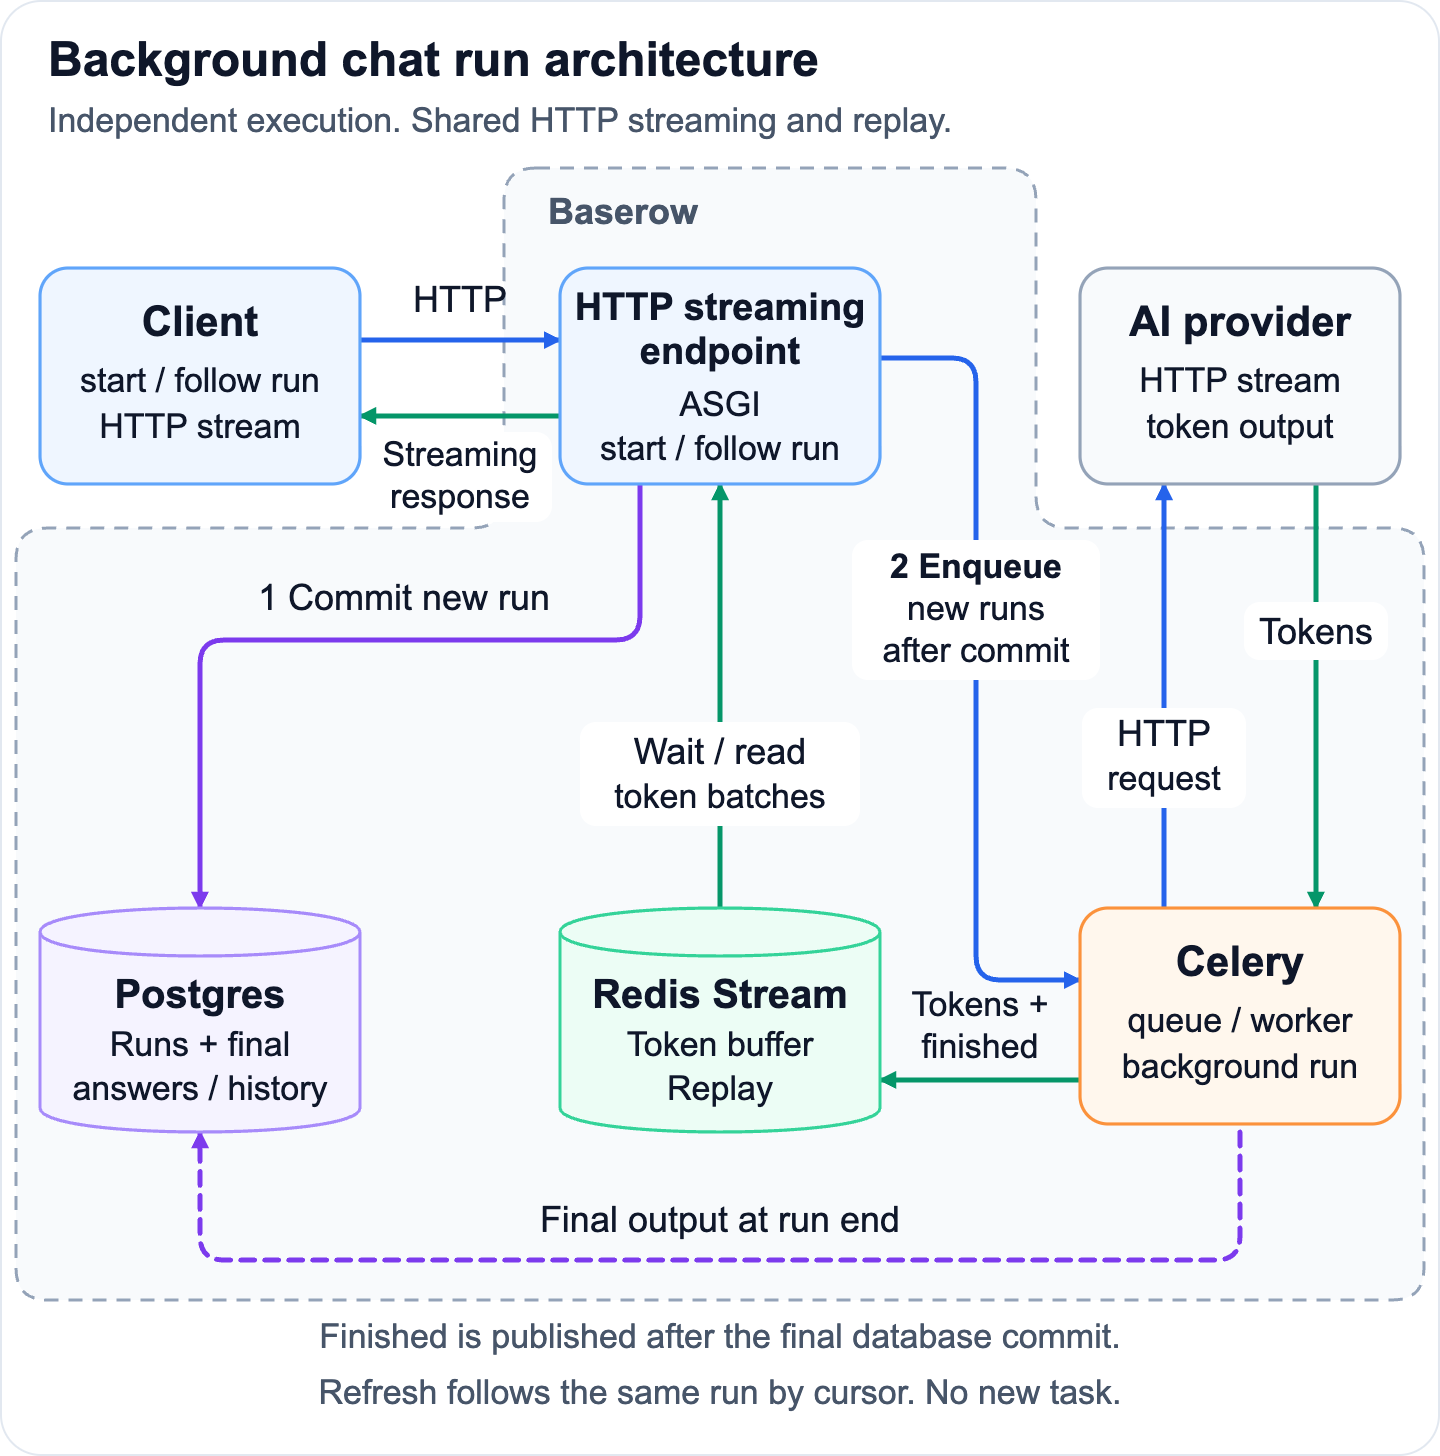
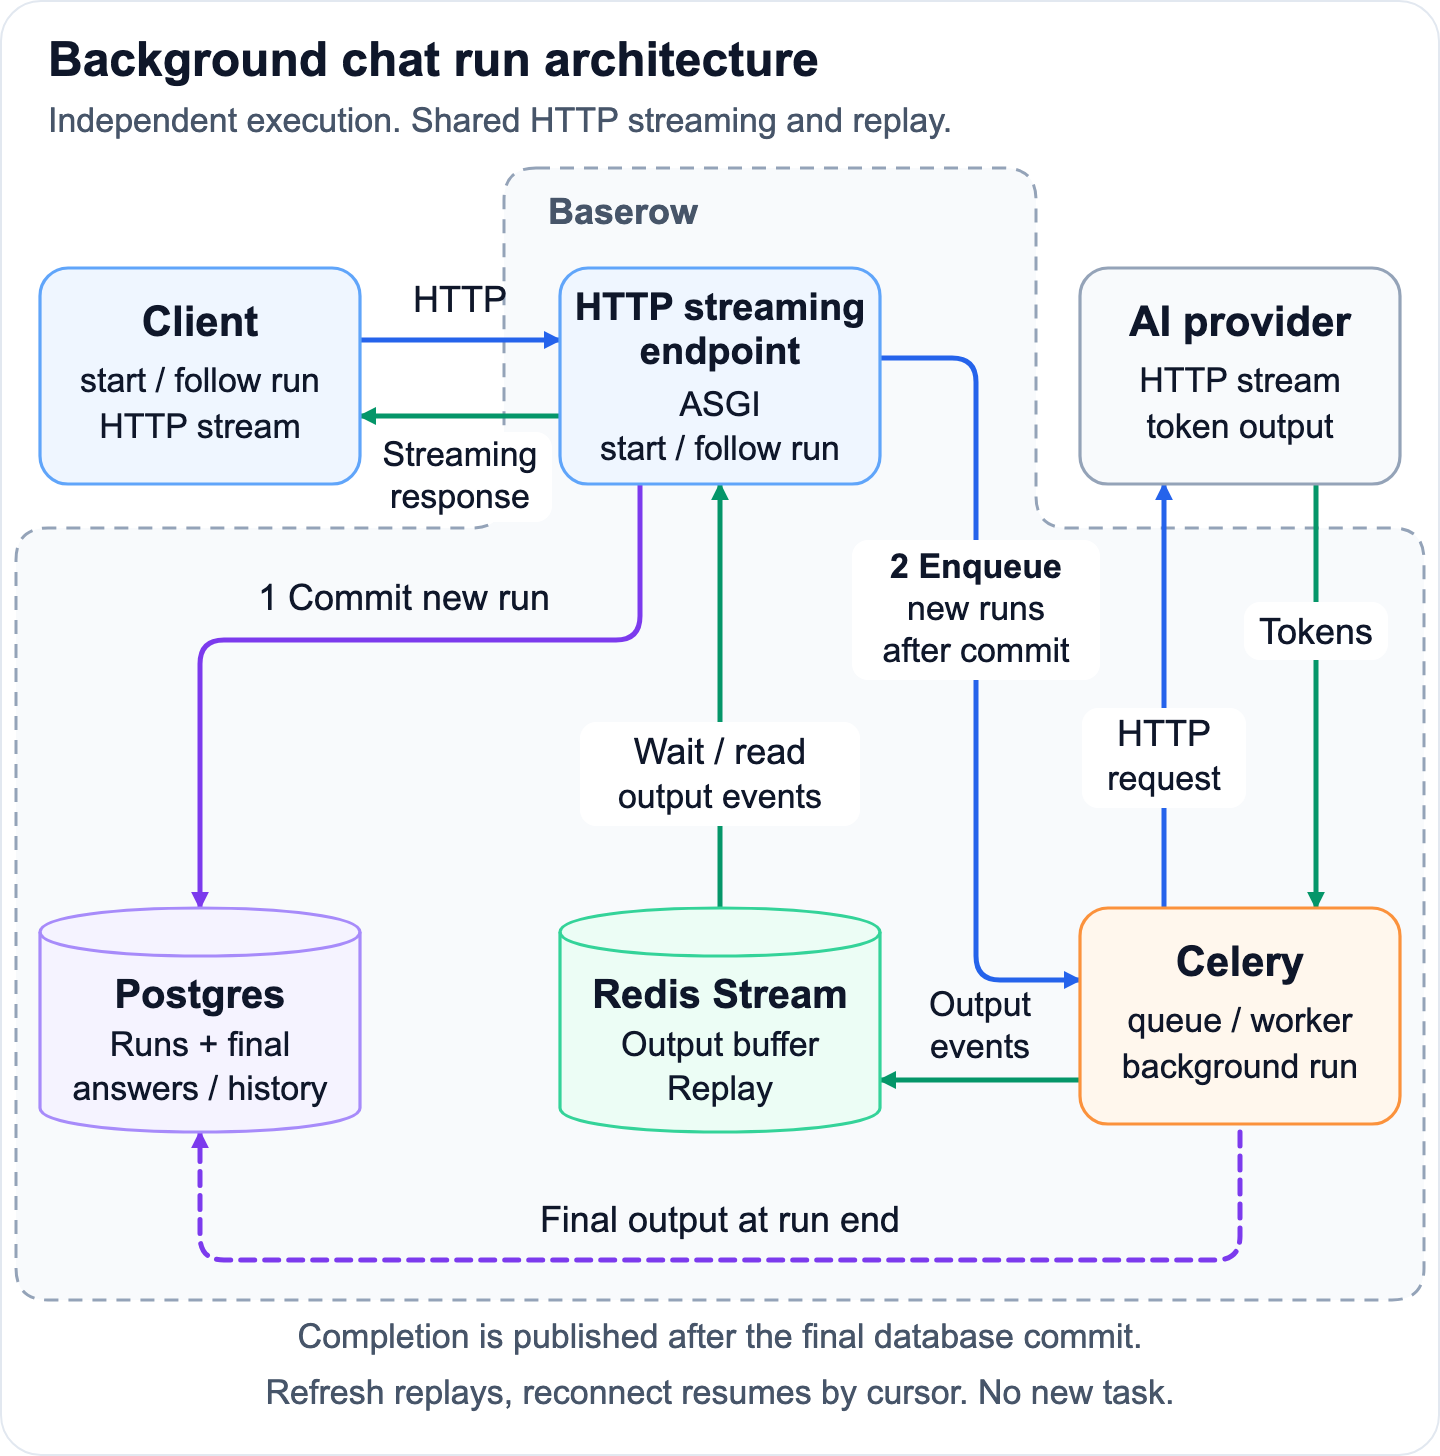
docs: clarify ADR 010 after review
- Define the not-started timeout, the periodic sweep and the chat_run queue.
- At the buffer size bound, stop publishing and mark replay unavailable.
- Make the interruption warning best effort and list its loss.
- Give Stop its own adapter permission check.
- Use "output events" as the single term in the text and diagram.

diff --git a/docs/decisions/010-background-ai-chat-runs.md b/docs/decisions/010-background-ai-chat-runs.md
@@ -52,16 +52,19 @@ of the initiating request and any followers. Product adapters supply execution,
 tools, permissions and conversation history.
 Disconnecting a follower never cancels the run; Stop is a separate operation.
 
-Keep one active run per conversation, per-user limits, execution deadlines,
-atomic claims and terminal transitions, and the `chat_run` queue on the existing
-export worker. The run engine never restarts failed or interrupted runs or
+Enforce one active run per conversation, per-user limits, execution deadlines,
+a not-started timeout for queued runs no worker picks up, atomic claims and
+terminal transitions. Runs use a dedicated `chat_run` Celery queue consumed by
+the existing export worker, so no new service is needed. The run engine never
+restarts failed or interrupted runs or
 replays their tool effects. Provider-request and validation retries within a
 live run remain product behavior. Stop is run-scoped and finishes after active
 tools drain; committed changes remain.
 
 ### 2. Stream and replay over HTTP
 
-Deliver ordered run output through an authenticated HTTP stream. A follower
+Deliver a run's ordered output events (text, progress, status and completion)
+through an authenticated HTTP stream. A follower
 attaches to an existing run by identity and, when available, its last consumed
 cursor. Following or reconnecting never creates another message, resubmits a
 prompt or enqueues work.
@@ -73,7 +76,7 @@ run lifecycle, output buffer and replay semantics.
 
 [![Background chat run architecture](../assets/diagrams/chat-runs/architecture.png)](../assets/diagrams/chat-runs/architecture.svg)
 
-Coalesce output into ordered batches in a per-run Redis Stream. Use
+Store output events in a per-run Redis Stream, coalescing text between writes. Use
 `XREAD BLOCK` after the last consumed ID for both replay and waiting, without
 consumer groups: every follower needs all events. Use a stable protocol namespace
 across application versions. Exclude credentials, execution context and raw tool
@@ -90,9 +93,10 @@ are not the replay source.
 
 Bound buffer size, retention, pending worker output and reconnect attempts.
 Active buffers renew for longer than the execution deadline; finished buffers
-expire after a reconnect window. Never trim a reconstructable prefix without a
-matching Redis-only state baseline. Missing history requires explicit recovery,
-not silent application of an incomplete suffix.
+expire after a reconnect window. Never trim a buffer: at its size bound, stop
+publishing and mark replay unavailable, while the run continues and saves its
+final answer. Missing history requires explicit recovery, not silent
+application of an incomplete suffix.
 
 A healthy claimed worker continues through output-buffer failure and saves its
 final answer from memory. Lease renewal, Stop and deadlines do not wait for Redis
@@ -106,15 +110,16 @@ followers with a separate capacity limit and bounded Redis read pool. Long
 streams must not occupy ordinary REST admission slots or retain a database
 connection or request thread while waiting. Apply authentication, permissions
 and CORS explicitly, check read access when a stream opens or reconnects, send
-compatible heartbeats and release blocked reads on disconnect. Read permission
-does not grant Stop; a run identifier alone grants no access.
+compatible heartbeats and release blocked reads on disconnect. Stop has its own
+adapter permission check, separate from read (for Kuma, the chat's owner); a run
+identifier alone grants no access.
 
 ### 4. Keep lifecycle and final outcomes in Postgres
 
 Postgres owns creation, active-run constraints, claims, leases, Stop and terminal
 status. Read new runs and recovery outcomes from the primary. Save the answer,
 model history and terminal status together at run end, then publish completion.
-There is no Postgres token-event table or periodic output snapshot, including at
+There is no Postgres output-event table or periodic output snapshot, including at
 tool boundaries. Human messages, liveness and tool effects retain their durable
 writes; tool changes and the generated answer are separate transactions.
 
@@ -133,6 +138,11 @@ are authoritative: late output or a stale worker cannot overwrite the winner.
 | Worker dies and Redis history is missing                       | Save an interrupted outcome; the entire partial answer may be lost.                                             |
 | Final outcome committed, Redis completion missing              | Recover the committed outcome from Postgres.                                                                    |
 | Final persistence fails                                        | Do not report completion. Record the failure when possible and preserve an interrupted/unavailable-result turn. |
+| Queued run never starts, e.g. lost from the broker             | End it as not started after the not-started timeout; it may report that nothing was done.                       |
+
+A periodic sweep ends runs whose lease expired and queued runs past the
+not-started timeout, whether or not anyone follows them. Until then, the
+conversation's active run blocks a new one.
 
 Recovery reads any usable Redis prefix with a bounded read outside the database
 transaction. It then locks and rechecks status and lease expiry before ending
@@ -140,25 +150,24 @@ the run: a worker may have renewed or finished meanwhile. Missing output cannot
 prevent an expired run from ending, and a prefix-less suffix is not a usable
 partial answer.
 
-Every started run without a durable complete result must leave or reconstruct
-an interruption warning for the next model request: changes may already exist.
-Try once more to preserve that warning before pruning run metadata after a
-failed product persistence hook; pruning does not wait for it to succeed, so
-run metadata never accumulates. Only work that provably never started may
-report that nothing was done. Persistence retries may save an already-computed
-outcome, but cannot repeat model calls or tool effects.
+For every started run without a durable complete result, make a best effort to
+leave or reconstruct an interruption warning for the next model request: changes
+may already exist. If saving it fails, pruning tries once more and then deletes
+the run metadata anyway, so metadata never accumulates. Only work that provably
+never started may report that nothing was done. Persistence retries may save an
+already-computed outcome, but cannot repeat model calls or tool effects.
 
 ### Decision factors
 
 - **Low latency and less database work.** Redis's in-memory appends suit frequent,
-  temporary output. Keeping token batches out of Postgres reduces inserts, WAL,
+  temporary output. Keeping output events out of Postgres reduces inserts, WAL,
   index maintenance and cleanup; output is saved durably once at run end.
 - **HTTP fits the interaction.** AI text providers commonly stream HTTP responses.
   Run output flows from server to client, while starting work and Stop use
-  ordinary requests. Token delivery adds no output traffic to websocket queues.
+  ordinary requests. Output events add no traffic to websocket queues.
 - **Existing client compatibility.** Kuma can adopt the shared capability while
-  retaining its current endpoint and response format through its adapter,
-  improving execution and recovery without a client migration.
+  retaining its current endpoint and response format through its adapter. Its
+  client changes are additive: resume and run-scoped Stop.
 - **Execution survives the viewer.** Independent workers and replay let users
   refresh or return to existing work without repeating model calls or changes.
 - **Shared infrastructure and behavior.** Existing Redis, Celery and ASGI support
@@ -173,8 +182,8 @@ outcome, but cannot repeat model calls or tool effects.
 | Option                                       | Why not                                                                                                                                   |
 | -------------------------------------------- | ----------------------------------------------------------------------------------------------------------------------------------------- |
 | Keep execution inside the message request    | Work remains tied to the response, with no independent run to follow after refresh.                                                       |
-| Store token events in Postgres               | Adds per-batch writes, WAL, indexes and cleanup for temporary output that Redis can buffer.                                               |
-| Stream tokens through websockets/Channels    | Adds a separate output protocol and token traffic to channel queues; channel delivery alone cannot provide replay.                        |
+| Store output events in Postgres              | Adds per-batch writes, WAL, indexes and cleanup for temporary output that Redis can buffer.                                               |
+| Stream output through websockets/Channels    | Adds a separate output protocol and output traffic to channel queues; channel delivery alone cannot provide replay.                       |
 | Use Channels wakeups followed by Redis reads | Can reduce blocked-reader pressure at high follower counts, but adds another queue and recovery path. Revisit if measurements justify it. |
 
 ## Consequences
@@ -182,15 +191,18 @@ outcome, but cannot repeat model calls or tool effects.
 - Clients can disconnect and return to the same run while work continues. Kuma
   gains a more reliable UX; the agent builder and other features can use the
   same execution, streaming and recovery behavior through their adapters.
-- Postgres avoids token-event storage and retains authoritative run state and
+- Postgres stores no output events and retains authoritative run state and
   final conversation history. Redis consumes bounded memory, and each blocked
   follower consumes a connection; capacity and retention need sizing.
 - Exact replay depends on retained Redis history. Combined worker and replay
-  loss can lose all partial output, while committed tool changes remain. The UI
-  and future model context must explain interrupted or unavailable results.
+  loss can lose all partial output, while committed tool changes remain. If the
+  final save and the pruning retry both fail, a chat resumed after pruning loses
+  the note that changes may already exist. The UI and future model context must
+  explain interrupted or unavailable results.
 - Failed or interrupted runs are not restarted automatically. A Redis outage
-  may lose queued Celery work, which ends through the not-started timeout. An interrupted worker
-  is not resumable, and shutdown grace can interrupt a long run.
+  may lose queued Celery work, which ends through the not-started timeout. An
+  interrupted worker is not resumable, and shutdown grace can interrupt a long
+  run.
 - Deployment must route streaming endpoints to ASGI and forward response chunks
   without proxy buffering, with suitable idle timeouts, follower admission limits
   and bounded reconnects. Redis persistence, failover and eviction policies must
